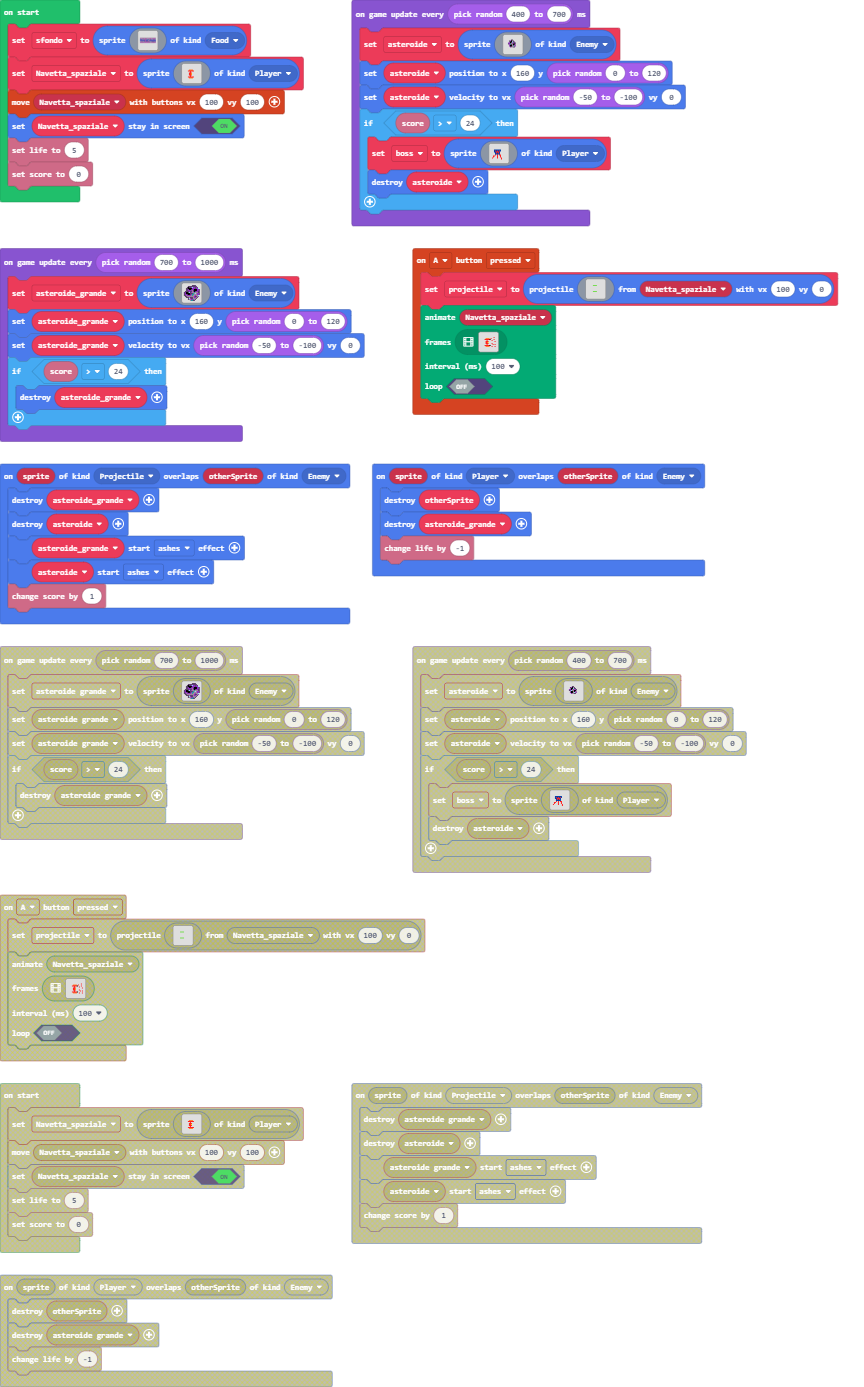
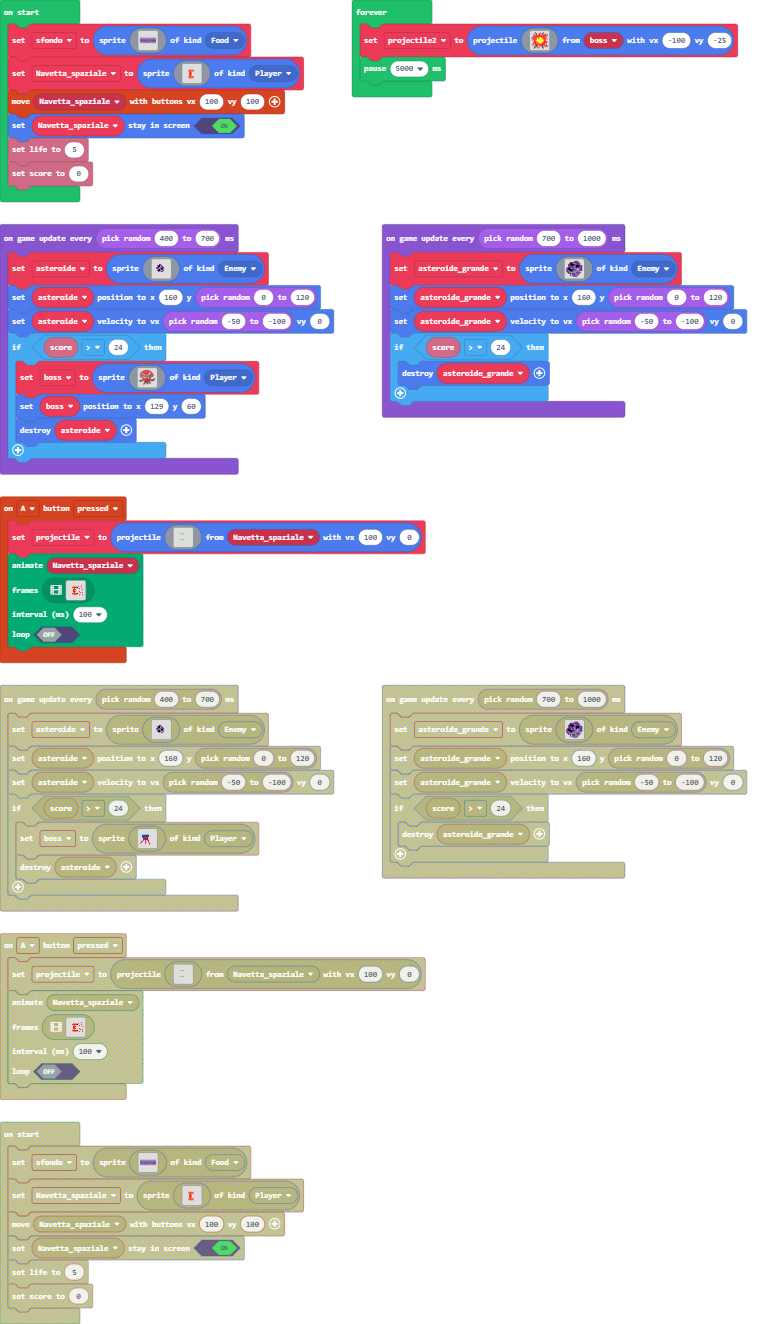
Update pxt.json, main.blocks, main.ts

diff --git a/main.ts b/main.ts
@@ -108,13 +108,13 @@ sprites.onOverlap(SpriteKind.Player, SpriteKind.Enemy, function (sprite, otherSp
     asteroide_grande.destroy()
     info.changeLifeBy(-1)
 })
+let projectile2: Sprite = null
 let boss: Sprite = null
 let asteroide: Sprite = null
 let asteroide_grande: Sprite = null
 let projectile: Sprite = null
 let Navetta_spaziale: Sprite = null
-let sfondo = sprites.create(img`
-    ccccccccccccccccccccccccccccccccccccccccccffffffffffffffffffffcccccccccccccccccccccccccccccccccccccccccccccccccccccccccccccccccccccccccccccccccccccccccccccccccccccccccccccccccccccccccccccccccccccccccccccccccccccccccccccccccccccccccccccccccccccccccccccccccccccccccccccccccccccccccccccccccccccccccccccccccccccccccccccccccccccccccccccccccccccccccccccccccccccccccccccccccccccccccccccccccccccccccccccccccc
+let sfondo = sprites.create(ccccccccccccccccccccccccccccccccccccccccccffffffffffffffffffffcccccccccccccccccccccccccccccccccccccccccccccccccccccccccccccccccccccccccccccccccccccccccccccccccccccccccccccccccccccccccccccccccccccccccccccccccccccccccccccccccccccccccccccccccccccccccccccccccccccccccccccccccccccccccccccccccccccccccccccccccccccccccccccccccccccccccccccccccccccccccccccccccccccccccccccccccccccccccccccccccccccccccccccccccc
     ccccccccccccccccccccccccccccffffffffffffffccccccccccccccccccccffffffffffffffffffffffffffffffcccccccccccccccccccccccccccccccccccccccccccccccccccccccccccccccccccccccccccccccccccccccccccccccccccccccccccccccccccccccccccccccccccccccccccccccccccccccccccccccccccccccccccccccccccccccccccccccccccccccccccccccccccccccccccccccccccccccccccccccccffffffffffffffffffffffffffffffffffffffffffffffffffffffffffffccccccc
     ccccccccccccccffffffffffffffccccccccccccccccccccccccccccccccccccccccccccccccccccccccccccccccfffffffccccccccccccccccccccccccccccccccccccccccccccccccccccccccccccccccccccccccccccccccccccccccccccccccccccccccccccccccccccccccffffffffffffffffffffffffffffffffffffffffffffffffffffffffffffffffccccccccccccccccccccccccccccccffffffffffffffffffffccccccccccccccccccccccccccccccccccccccccccccccccccccccccccccffffccc
     cfffffffffffffcccccccccccccccccccccccccccccccccccccccccccccccccccccccccccccccccccccccccccccccccccccfffffffffffffffffffffffffffffffcccccccccccccccccccfffffccccccccccccccccccccccccccccccccccccccccccccccccccccfffffffffffffccccccccccccccccccccccccccccccccccccccccccccccccccccccccccccccccffffcccccccccccccccccccfffffffccccccccccccccccccccccccccccccccccccccccccccccccccccccccccccccccccccccccccccccccccccccc
@@ -162,35 +162,35 @@ let sfondo = sprites.create(img`
[64 lines of base64/hex data omitted]
@@ -234,7 +234,7 @@ let sfondo = sprites.create(img`
     ffffffcccccccccccccccccccccccccccccccccccccccccccccccccccccccccfffffcccccccccccccffffffffffffffffffffccccccccccccccccccccccccccccccccccccccccccccccccccccccccccccccccccccccccccccccccccccccccccccccccccccccccccccccccccccccccccccccccccccccccccccccccffffffffccccccccccccccccccccccffccccccccccccccccccccccccccccccccccffffffffffffffffffffffffffffffffffffffffffffffffccccccccccccccccccccccccccccccccccccccccc
     ccccccccccccccccccccccccccccccccccccccccccccccccccccccfffffffffccccccccccccccccccccccccccccccccccccccffffffffffffffffffffffffffffffffffffffffffffffffffffffffffffccccccccccccccccccccccccccccccccccccccccccccccccccccccccccccccccccccccccffffffffffffccccccccccccccccccccccccccffffccccccccccccccccccccccccccccccccccccccccccccccccccccccccccccccccccccccccccccccccccccccccccccccccccccccccccccccccccccccccccccc
     ffffffffffffffffffffffffffffffffffffffffffffffffffffffcccccccccccccccccccccccccccccccccccccccccccccccccccccccccccccccccccccccccccccccccccccccccccccccccccccccccccffffffffffffffffffffffffffffffffffffffffffffffffffffffffffffffffffffffffccccccccccccccccccccccccccccccccffffffccccccccccccccccccccccccccccccccccccccccccccccccccccccccccccccccccccccccccccccccccccccccccccccccccccccccccccccccccccccccccccccccc
-    `, SpriteKind.Food)
+`, SpriteKind.Food)
 Navetta_spaziale = sprites.create(img`
     . . . . . . . . . . . . . . . . 
     . . . . . . . . . . . . . . . . 
@@ -280,23 +280,88 @@ game.onUpdateInterval(randint(400, 700), function () {
     asteroide.setVelocity(randint(-50, -100), 0)
     if (info.score() > 24) {
         boss = sprites.create(img`
-            . . . . . . . . . . . . . . . . 
-            . . . . . . . . . . . . . . . . 
-            . . . . . . . . . . . . . . . . 
-            . . . . . . . . . . . . . . . . 
-            . . . 8 8 8 8 8 8 8 . . . . . . 
-            . . . 8 2 8 2 8 2 8 . . . . . . 
-            . . . 8 8 2 2 2 8 . . . . . . . 
-            . . . . 8 2 8 2 8 . . . . . . . 
-            . . . . 8 8 8 8 8 . . . . . . . 
-            . . . . 2 . 2 . 2 2 . . . . . . 
-            . . 2 2 . . 2 . . 2 . . . . . . 
-            . . 2 . . . 2 . . 2 . . . . . . 
-            . 2 . . . . 2 . . . 2 . . . . . 
-            . . . . . . . . . . 2 . . . . . 
-            . . . . . . . . . . . . . . . . 
-            . . . . . . . . . . . . . . . . 
+            ................................................................................
+            ..............................fffffffffffffff...................................
+            ...........................fff222222222222222ff.................................
+            ........................fff22222222222222222222ff...............................
+            .....................fff2222222222222222222222222ffff...........................
+            ...................ff2222222222222222222222222222222fff.........................
+            .................ff22222222222222222222222222222222222ff........................
+            ...............fff2222222222222222222222222222222222222ff.......................
+            ...............f22222222222222222222222222222222222222222ff.....................
+            .............ff22222222222222222222222222222222222222222222f....................
+            ............f2222222222222222222222222222222222222222222222f....................
+            ...........f2222222222f22222222222222222222222f2222222222222ff..................
+            ..........f22222222222ff222ff22222222222222222f22ffffff2222222f.................
+            .........f222222ffff222ff2222ff22222222222f222f22f1111fff22222ff................
+            ........ff22222ff11f2222f22222f222222222ff222f222f111111f2222222f...............
+            ........f222222f111f2222ff2222222222222f2222ff222f111111ff2222222f..............
+            .......f2222222f111f22222ff2222222222222222ff2222f1111111f2222222ff.............
+            .......f2222222f111ff222222ffff2222222222fff2222f11111111f22222222f.............
+            ......f2222222ff1111ff22222222ff2222222fff222222f11111111f222222222f............
+            ......f2222222f111111fff2222222222222ff22222222ff11111111f2222222222f...........
+            .....f22222222f11111ff5ff222222222222222222222ffff111111ff2222222222ff..........
+            .....f22222222f111ff5555fff2222222222222ffff2ff555ff1111f222222222222f..........
+            .....f222222222f11f555f5f1ffffff2222222f1ffffff5555f111ff222222222222f..........
+            .....f222222222f11f55f55f111111f222222ff11111f55f55f111f2222222222222f..........
+            .....f222222222ff1f5f555f111111f222222f111111f55f55ff1ff2222ff22222222f.........
+            .....f2222222222fff5555ff111111f222222f111111f55f555fff22222fff2222222f.........
+            .....f22222222222fffffff1111111f222222f111111f555555ff22222f11f2222222f.........
+            .....f22222fff222222ff11111111f2222222ff11111ff5555ff22222ff11f2222222f.........
+            .....f22222f11f2222222fffffffff22222222fff1111fffffff2222ff111f2222222f.........
+            .....f22222f11fff222222222222222222222222fff11fffff22222ffff1ff222222ff.........
+            .....f22222f11f1fff222222222222222222222222ffff222222222ff1ffff22222ff..........
+            .....f22222ff1f111fffffffff222222f222222222222222222222f1f11ff22222ff...........
+            .....f222222f1f11fff11111f1fffffffff2222222222f222222fff1f11ff2222ff............
+            .....ff222222fffff1f1111ff111111ff11ffffffffffffffffffff1f1ff9222ff.............
+            ......ff2222299f111ff11ffff1111ff1f1111ff1111f1ff1111f1fffff2922ff..............
+            ........ff229922f111fff111f111ff11f111fff1111f11f111ff1ffff2299ff...............
+            ........ffff9222ff11ff11111f11f111f11ff1ff11f1111ff1f111ff22f99.................
+            .........ff992222ffff111111f1ff111ff1f111f1ff11111fff1ff222ff...................
+            ..........99f222222ff111111fff11111f1f1111ff111111ffff2222ff....................
+            .............ff222222fff1111ff11111ff11111ff11111ffff2222f......................
+            ...............fff222222fff9ffffffffffffffffffffff22222ff.......................
+            ..................ffff2222292222222222222222222229222ff....................f....
+            ......................f222292222222222222222222229222f.....................ff...
+            .....................ff222292222222222222222222299222f....................fff...
+            ....................ff222229222222222222222222ff9f222ff.................fff2f...
+            ...................ff222ff92222fff22222ff222222f9ff2222fff..........fffff222f...
+            .................fff222ff992222ff222222fff222222f.f2222222ffffffffff22222222f...
+            ................ff2222fff9f2222fff22222ffff22222fffff22222222222222222222222f...
+            ............ffff222222ff..f2222fff22222ffffff2222f.fff2222222222222222222222f...
+            ...........ff22222222ff...f2222fff22222ffffff22222f.ffff2222222222222222222ff...
+            ......fffff222222222fff...f2222fff22222ffffff22222ff..ffff22222222222222222f....
+            ...ffff222222222222fff....f2222fff222222ff.fff22222ff..fffff222222222222ffff....
+            ..ff2222222222222ffff.....ff222ffff22222ff..ff22222ff....ffffffffffffffffff.....
+            ..f222222222222ffff........f222f.ff22222ff..fff22222f.......ffffffffffffff......
+            .ff222222222ffffff........f2222ff.ff2222fff.fff222222f.......ffffffffffff.......
+            .f2222222fffffff..........f2222ff.ff22222ff..ff222222f..........................
+            .f222ffffffffff...........f2222ff.ff22222ff..fff222222f.........................
+            .ff2ffffffff.............ff2222ff.ff22222ff...ff222222f.........................
+            ..ffffff.................f22222ff.ff22222ff...fff22222ff........................
+            .........................f22222ff.fff2222ff...fff222222f........................
+            .........................f22222ff.fff2222fff..fff222222f........................
+            .........................f2222fff..ff22222ff...ff222222f........................
+            ........................f22222fff..ff22222ff...fff22222f........................
+            ........................f22222ff...ff222222f...ffff2222f........................
+            .......................ff2222fff...fff22222f....fff2222f........................
+            .......................f2222fff.....fff2222ff....fff222f........................
+            ......................ff2222ff.......ff2222ff.....fff22f........................
+            ......................f2222fff.......fff222ff.....ffff2f........................
+            ......................f2222ff.........ff222ff.......ffff........................
+            ......................f222fff.........fff22ff...................................
+            .....................ff2222f...........ffffff...................................
+            .....................f2222ff.............ffff...................................
+            .....................fffff......................................................
+            ................................................................................
+            ................................................................................
+            ................................................................................
+            ................................................................................
+            ................................................................................
+            ................................................................................
+            ................................................................................
             `, SpriteKind.Player)
+        boss.setPosition(129, 60)
         asteroide.destroy()
     }
 })
@@ -324,4 +389,25 @@ game.onUpdateInterval(randint(700, 1000), function () {
     if (info.score() > 24) {
         asteroide_grande.destroy()
     }
+})
+forever(function () {
+    projectile2 = sprites.createProjectileFromSprite(img`
+        . . . f . . . . 2 . . f . . . . 
+        . . . . f . . 2 2 . f . . 2 . . 
+        . 2 2 . 2 . 2 2 . 2 . 2 2 2 . f 
+        . . 2 2 2 2 2 2 2 2 2 2 2 . f . 
+        . f . 2 2 2 4 2 4 2 4 2 2 2 . . 
+        f . 2 2 4 5 2 5 1 5 2 4 4 2 2 . 
+        . 2 2 4 2 1 5 5 5 5 5 2 2 2 . 2 
+        2 . 2 2 4 1 5 5 5 5 1 5 4 2 . . 
+        . . 2 4 5 5 1 5 5 1 5 5 2 2 . . 
+        . . 2 2 2 5 5 5 5 5 5 4 2 2 2 2 
+        . 2 2 2 4 2 2 5 1 5 4 2 2 2 2 . 
+        . 2 . 2 2 4 4 4 2 4 2 2 2 . . . 
+        2 . . 2 2 2 2 2 2 2 2 2 2 . f . 
+        . . 2 . f . . . 2 . f . 2 2 . f 
+        . . . f . f . 2 . . f . . . 2 . 
+        . . f . . . 2 . . . . f . . . . 
+        `, boss, -100, -25)
+    pause(5000)
 })
